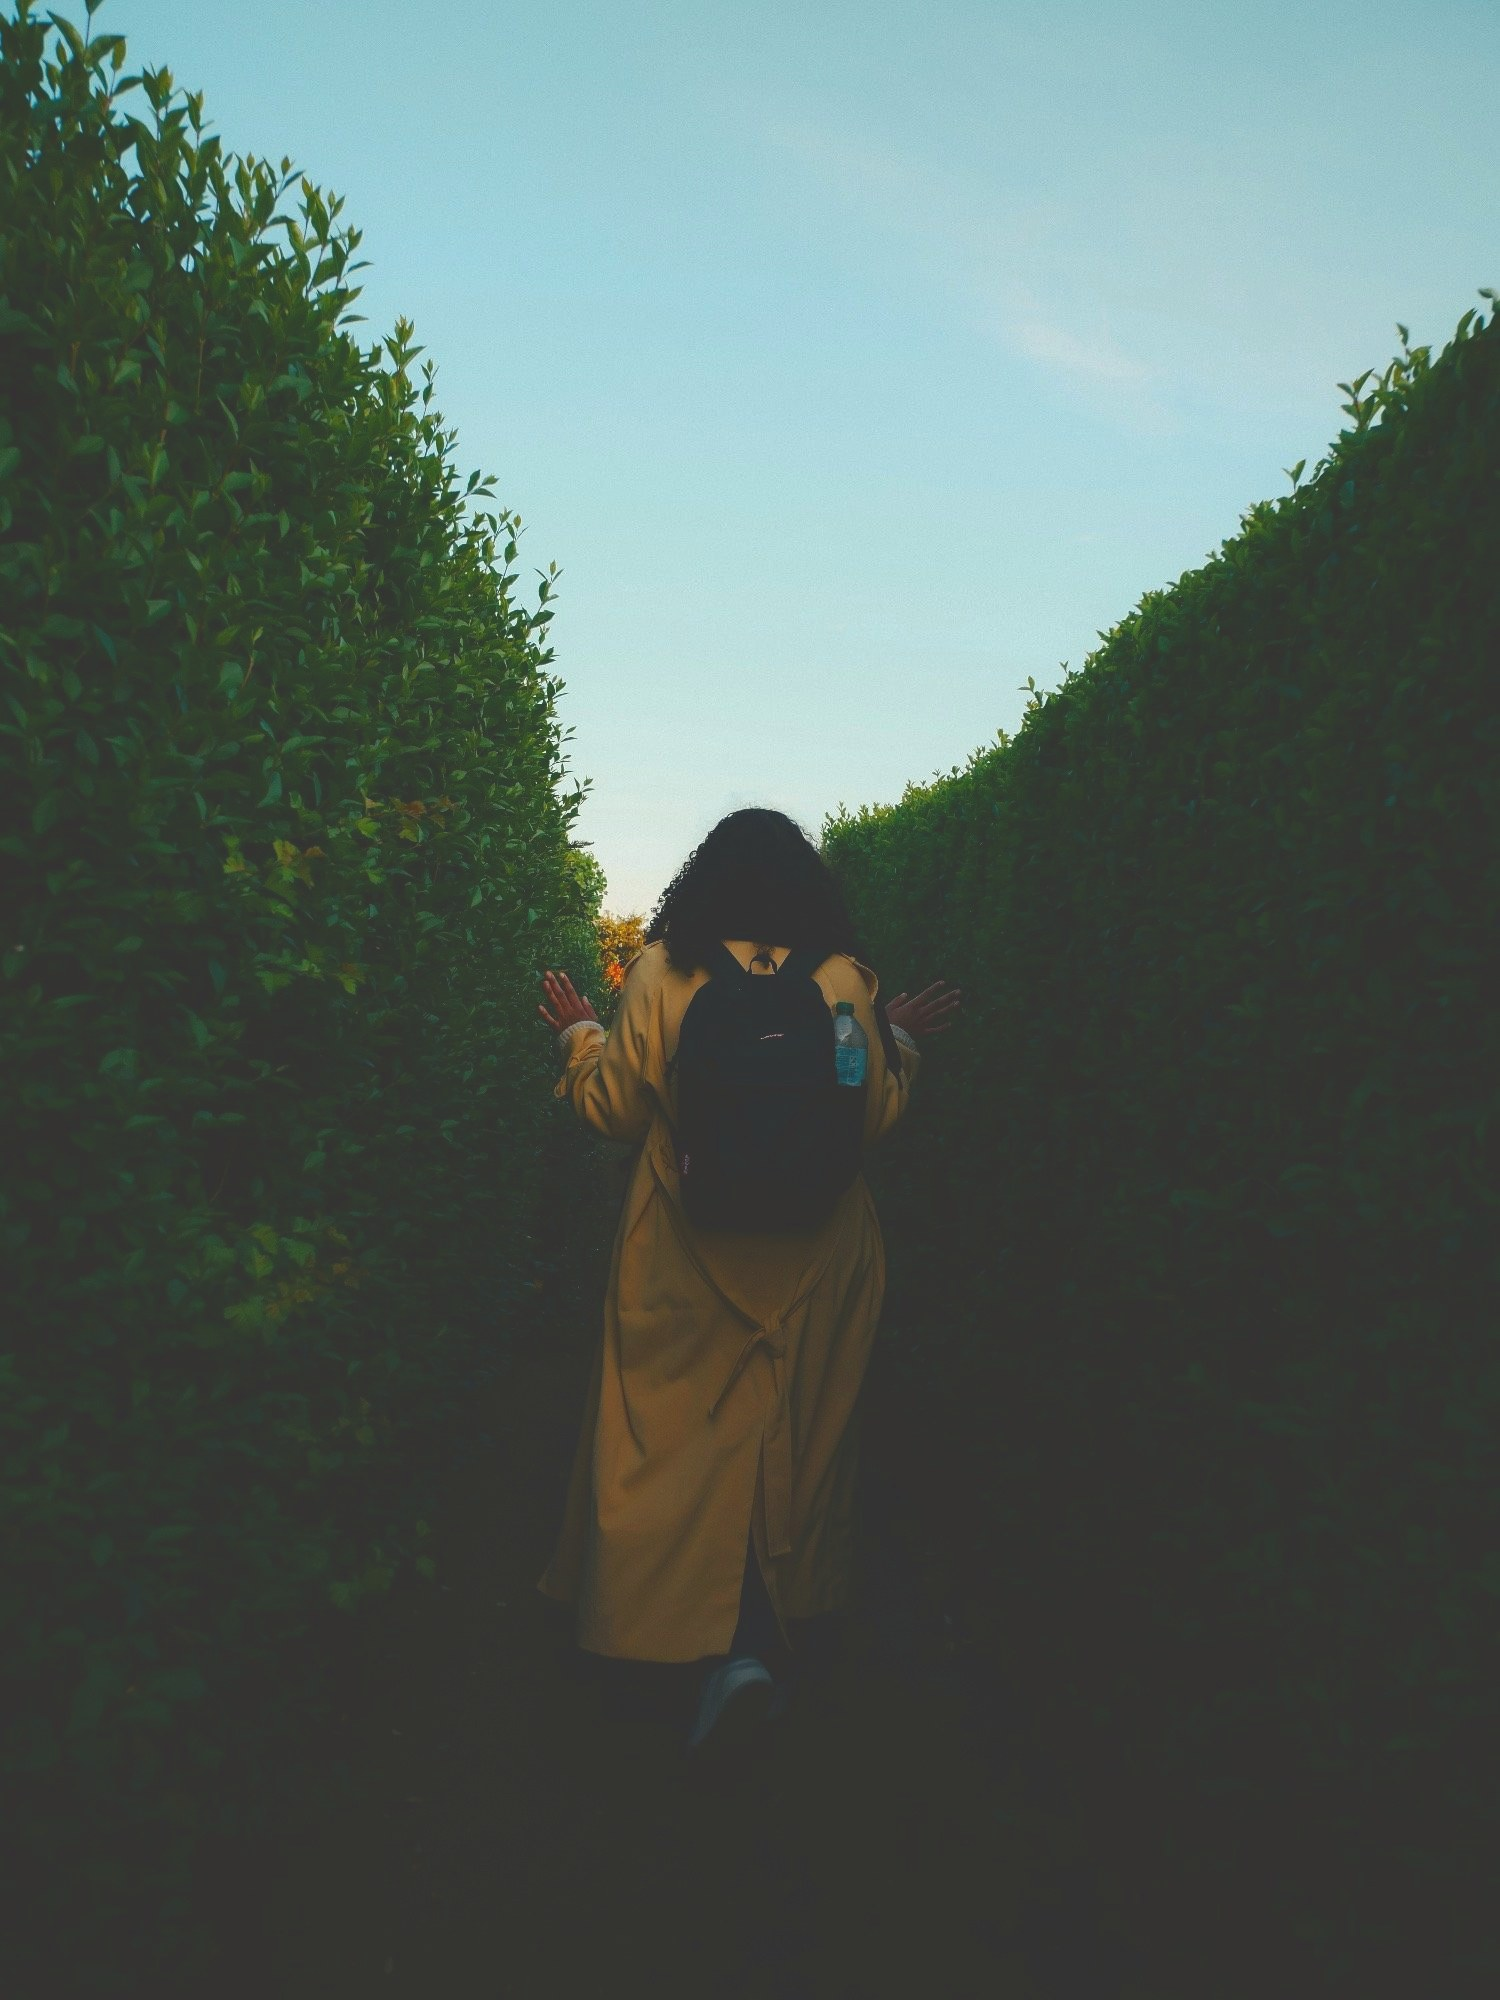
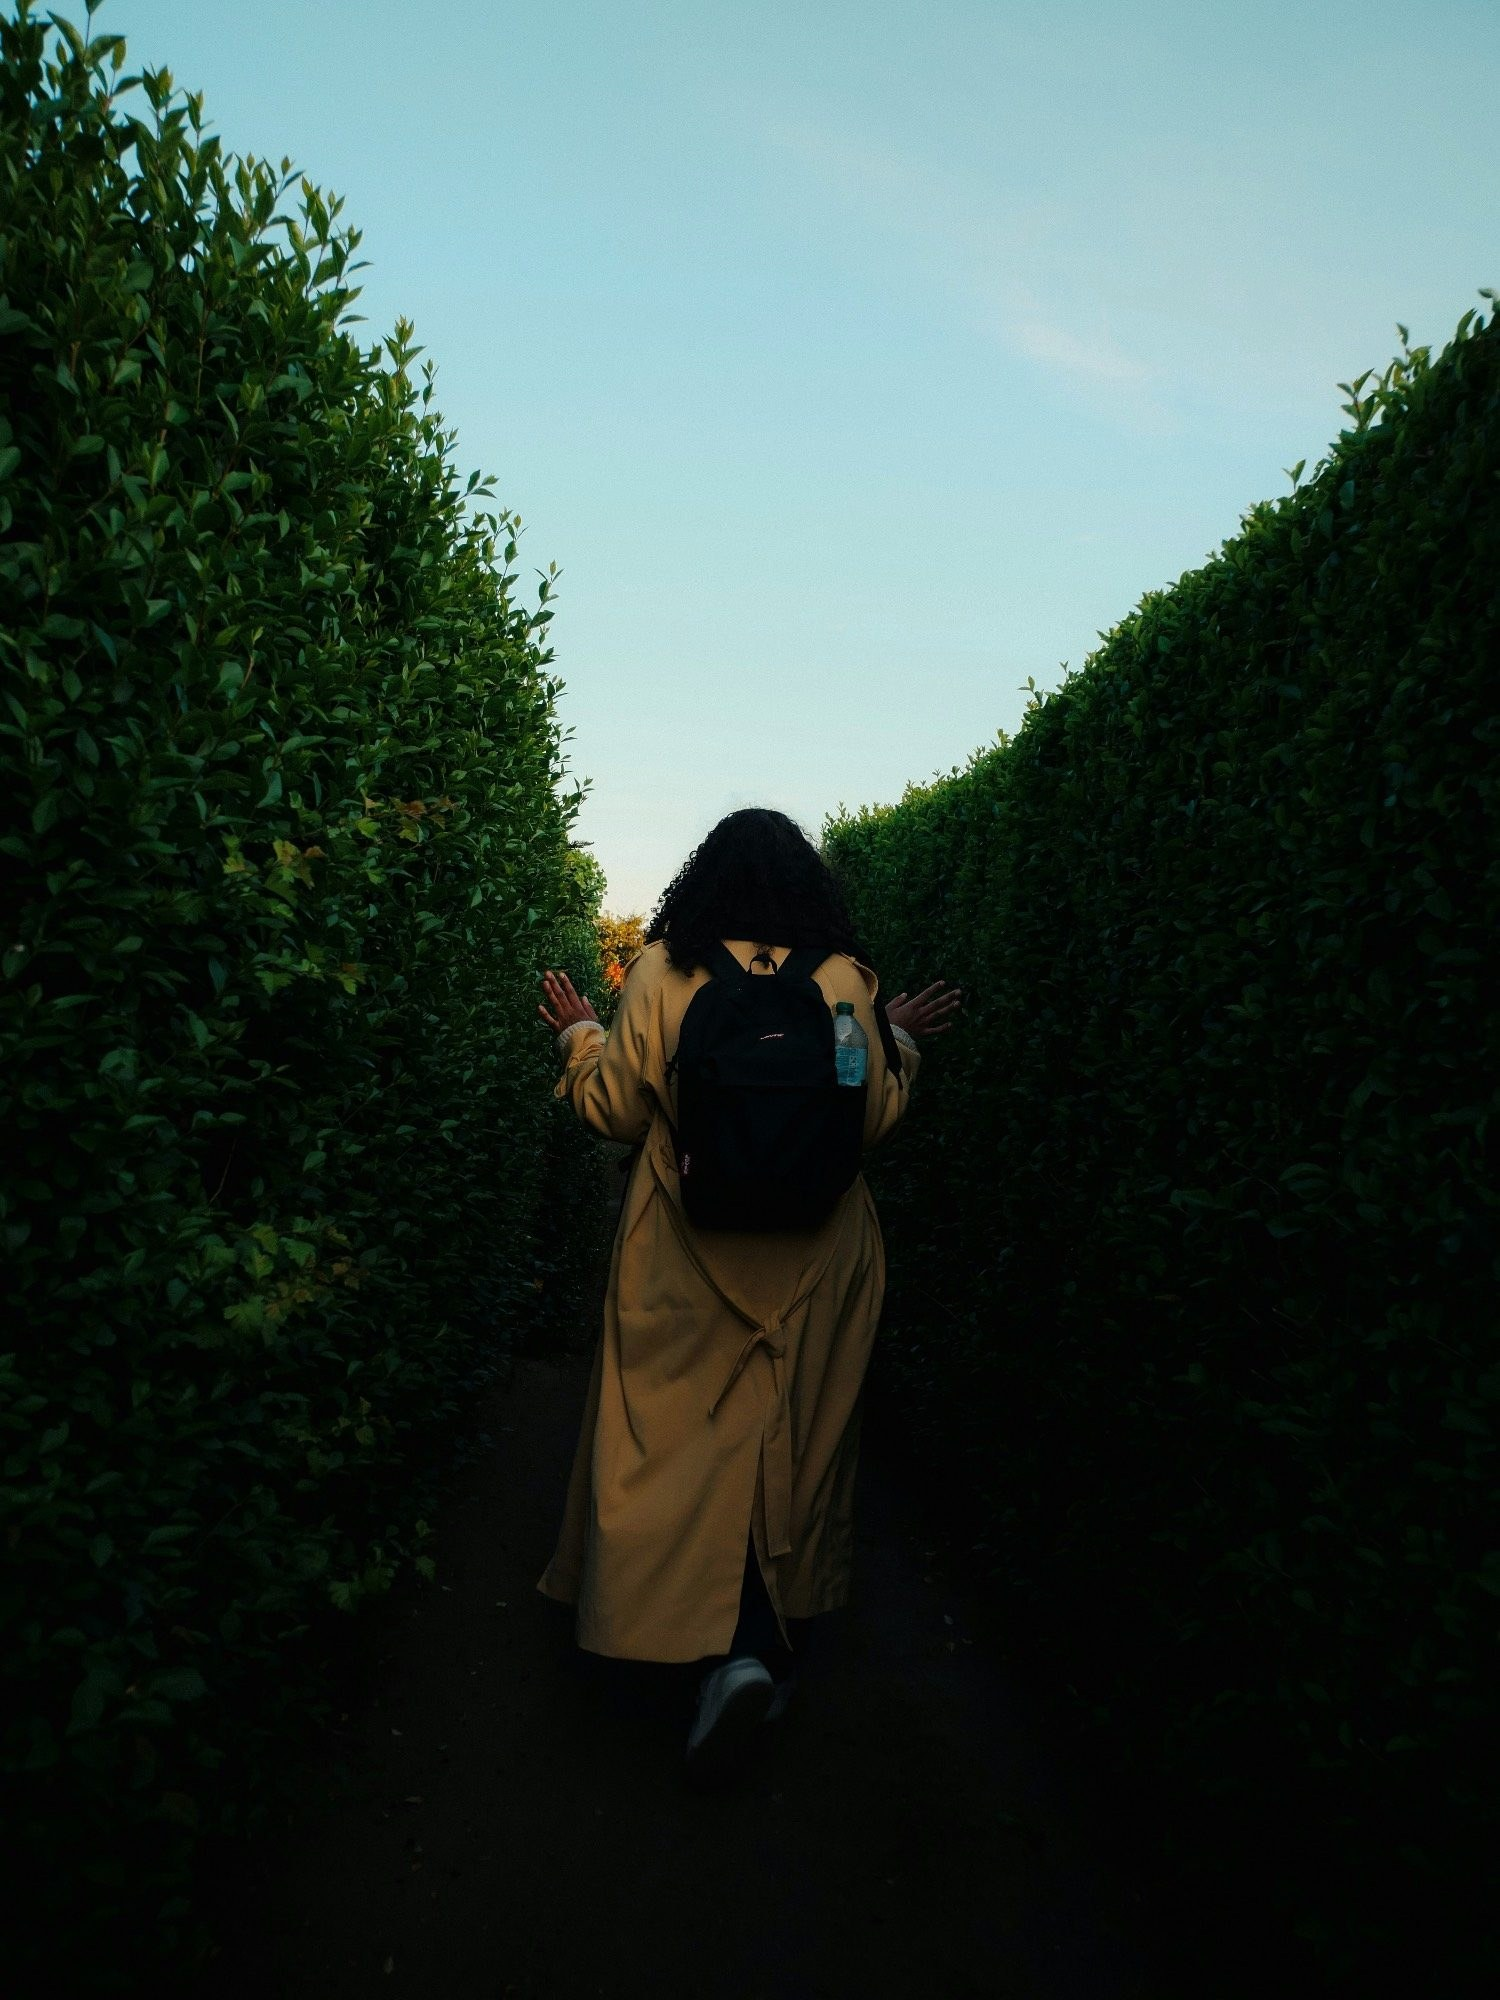
Labyrinth photo restored to the version before the shadow lift

diff --git a/CLAUDE.md b/CLAUDE.md
@@ -25,7 +25,7 @@ Website for Delos Recruitment Ltd, a specialist recruitment-to-recruitment (rec2
 - Headline font is Gloock (free, SIL Open Font Licence). Never use Erstoria.
 - Never use em dashes or en dashes in copy. UK English. No emoji, no exclamation marks.
 - Team voice: Delos speaks as "we" so it reads as more than one person. No "I", no personal "about Maria" section, no photos of people from Maria's life.
-- Campaign images (agreed with Maria, Oct 2026): Greek myth themed photos with a short headline set into the image, no logo on the images (the DELOS wordmark was removed; its corner now holds the button), no pink highlights, no nudity, no generative AI images. Free Unsplash licence photos, saved full frame in `assets/img` as `<name>-full.jpg` (up to 2000px) and `<name>-800.jpg`, framed per image with `object-position`. Current set: labyrinth (Home), pillars (Hiring hero and Home Hiring card), Sisyphus (Careers hero) and small plane (Careers, below "Thinking about a move into recruitment?", the falling-into-recruitment section), crowd (About: commuters walking through a bright white hall, one in a camel coat; Maria's choice; dark headline top left on the ceiling), ships (Contact), 404 marker sign (404: Maria's own photo). All photos share one clean finish baked into the files (see Layout). Headlines are signed off by Maria; don't change them without asking. Page headlines (Oct 2026): Home "Lost in the labyrinth? We'll guide you through.", Hiring "Relationships that stand the test of time.", Careers "Pushing the same boulder every quarter?" and "Did you fall into recruitment? We'll help you fly.", About "Never just a face in the crowd." (commuters in a white hall), Contact "Ships passing in the night? Not with us." (hook: "Let's find a time that suits you.") On scroll the question or statement lands first and the answer follows. Each campaign photo IS its section (`.story`): the photo runs edge to edge in full colour, its line is the section headline set in white along the bottom of the photo (one soft dark shade at the foot of every photo), on the same column as the words directly beneath, so photo, headline and text read as one piece. No buttons or text boxes on photos. Every page opens the same way: a photo hero at the same height with the page headline (h1) on it. Home labyrinth ("Everything you have heard about recruitment is a myth."), Hiring pillars ("Relationships that stand the test of time."), Careers small plane ("Did you fall into recruitment? We'll help you fly.") plus Sisyphus as the experienced-recruiter section, About Mykonos alley ("About Delos Recruitment"), Contact ships ("Ships passing in the night? Not with us."), 404 Mykonos. Layout (24 Oct 2026, final with Maria): magazine spread on desktop (960px+): square photo (7fr) beside its words (5fr), the Careers second story swaps sides; text sections below sit on the same two columns (title left 5fr, content right 7fr). Phones stack photo then words. Every photo headline is one size, in the photo's open space, never over the subject; white headlines sit LOW on the photo, dark (ink) headlines sit HIGH. Four type sizes only: --t-display (all headlines), --t-heading (myths, quotes, step and card titles), --t-body, --t-small. The hook under each photo is the body font (not Gloock), slightly larger; paragraphs beneath are slate-500. Home cards and reviews are editorial (no boxes); each card's page headline fades in on its photo on hover (always shown on touch), no extra links. Caryatids (Unsplash fJ7dY66Jpec, whole porch, blue sky) headline sits in the open sky top left. Labyrinth shadows lifted so the woman reads clearly. Plane (Careers): Maria's light aircraft in clear blue sky, white headline low. Ships (Contact): Maria's single red cargo ship at dusk with the moon; dark headline top right, clear of the moon. Desktop uses exactly four sizes (42, 25, 18, 16px); on phones only the labyrinth and caryatids headlines drop to 26px because their sky is narrow. Photos: clean natural finish (saturation x0.94, slight warmth, no grain, no lifted blacks); never a faded film or Tumblr look. 404 photo: roadside 404 marker sign in a field (Maria's own photo). Buttons and photo corners 4px. The variety of subjects is deliberate; the shared frame, position, type and shade make them one series. Motion: the photo opens like a raised blind, settles, then drifts gently with scroll; the headline lands and the words follow. Reduced motion shows everything still.
+- Campaign images (agreed with Maria, Oct 2026): Greek myth themed photos with a short headline set into the image, no logo on the images (the DELOS wordmark was removed; its corner now holds the button), no pink highlights, no nudity, no generative AI images. Free Unsplash licence photos, saved full frame in `assets/img` as `<name>-full.jpg` (up to 2000px) and `<name>-800.jpg`, framed per image with `object-position`. Current set: labyrinth (Home), pillars (Hiring hero and Home Hiring card), Sisyphus (Careers hero) and small plane (Careers, below "Thinking about a move into recruitment?", the falling-into-recruitment section), crowd (About: commuters walking through a bright white hall, one in a camel coat; Maria's choice; dark headline top left on the ceiling), ships (Contact), 404 marker sign (404: Maria's own photo). All photos share one clean finish baked into the files (see Layout). Headlines are signed off by Maria; don't change them without asking. Page headlines (Oct 2026): Home "Lost in the labyrinth? We'll guide you through.", Hiring "Relationships that stand the test of time.", Careers "Pushing the same boulder every quarter?" and "Did you fall into recruitment? We'll help you fly.", About "Never just a face in the crowd." (commuters in a white hall), Contact "Ships passing in the night? Not with us." (hook: "Let's find a time that suits you.") On scroll the question or statement lands first and the answer follows. Each campaign photo IS its section (`.story`): the photo runs edge to edge in full colour, its line is the section headline set in white along the bottom of the photo (one soft dark shade at the foot of every photo), on the same column as the words directly beneath, so photo, headline and text read as one piece. No buttons or text boxes on photos. Every page opens the same way: a photo hero at the same height with the page headline (h1) on it. Home labyrinth ("Everything you have heard about recruitment is a myth."), Hiring pillars ("Relationships that stand the test of time."), Careers small plane ("Did you fall into recruitment? We'll help you fly.") plus Sisyphus as the experienced-recruiter section, About Mykonos alley ("About Delos Recruitment"), Contact ships ("Ships passing in the night? Not with us."), 404 Mykonos. Layout (24 Oct 2026, final with Maria): magazine spread on desktop (960px+): square photo (7fr) beside its words (5fr), the Careers second story swaps sides; text sections below sit on the same two columns (title left 5fr, content right 7fr). Phones stack photo then words. Every photo headline is one size, in the photo's open space, never over the subject; white headlines sit LOW on the photo, dark (ink) headlines sit HIGH. Four type sizes only: --t-display (all headlines), --t-heading (myths, quotes, step and card titles), --t-body, --t-small. The hook under each photo is the body font (not Gloock), slightly larger; paragraphs beneath are slate-500. Home cards and reviews are editorial (no boxes); each card's page headline fades in on its photo on hover (always shown on touch), no extra links. Caryatids (Unsplash fJ7dY66Jpec, whole porch, blue sky) headline sits in the open sky top left. Labyrinth: keep the photo exactly as it is (no shadow lift or extra grading). Plane (Careers): Maria's light aircraft in clear blue sky, white headline low. Ships (Contact): Maria's single red cargo ship at dusk with the moon; dark headline top right, clear of the moon. Desktop uses exactly four sizes (42, 25, 18, 16px); on phones only the labyrinth and caryatids headlines drop to 26px because their sky is narrow. Photos: clean natural finish (saturation x0.94, slight warmth, no grain, no lifted blacks); never a faded film or Tumblr look. 404 photo: roadside 404 marker sign in a field (Maria's own photo). Buttons and photo corners 4px. The variety of subjects is deliberate; the shared frame, position, type and shade make them one series. Motion: the photo opens like a raised blind, settles, then drifts gently with scroll; the headline lands and the words follow. Reduced motion shows everything still.
 - Speak directly to the reader ("you", "your business"). Hiring speaks to clients, Careers to candidates. About describes the business.
 - Stress thoroughness, never speed ("quick", "fast", "efficient").
 - Reviews: keep to two or three, quoted word for word, credited by role (for example "Candidate, Google review"), never by name.
